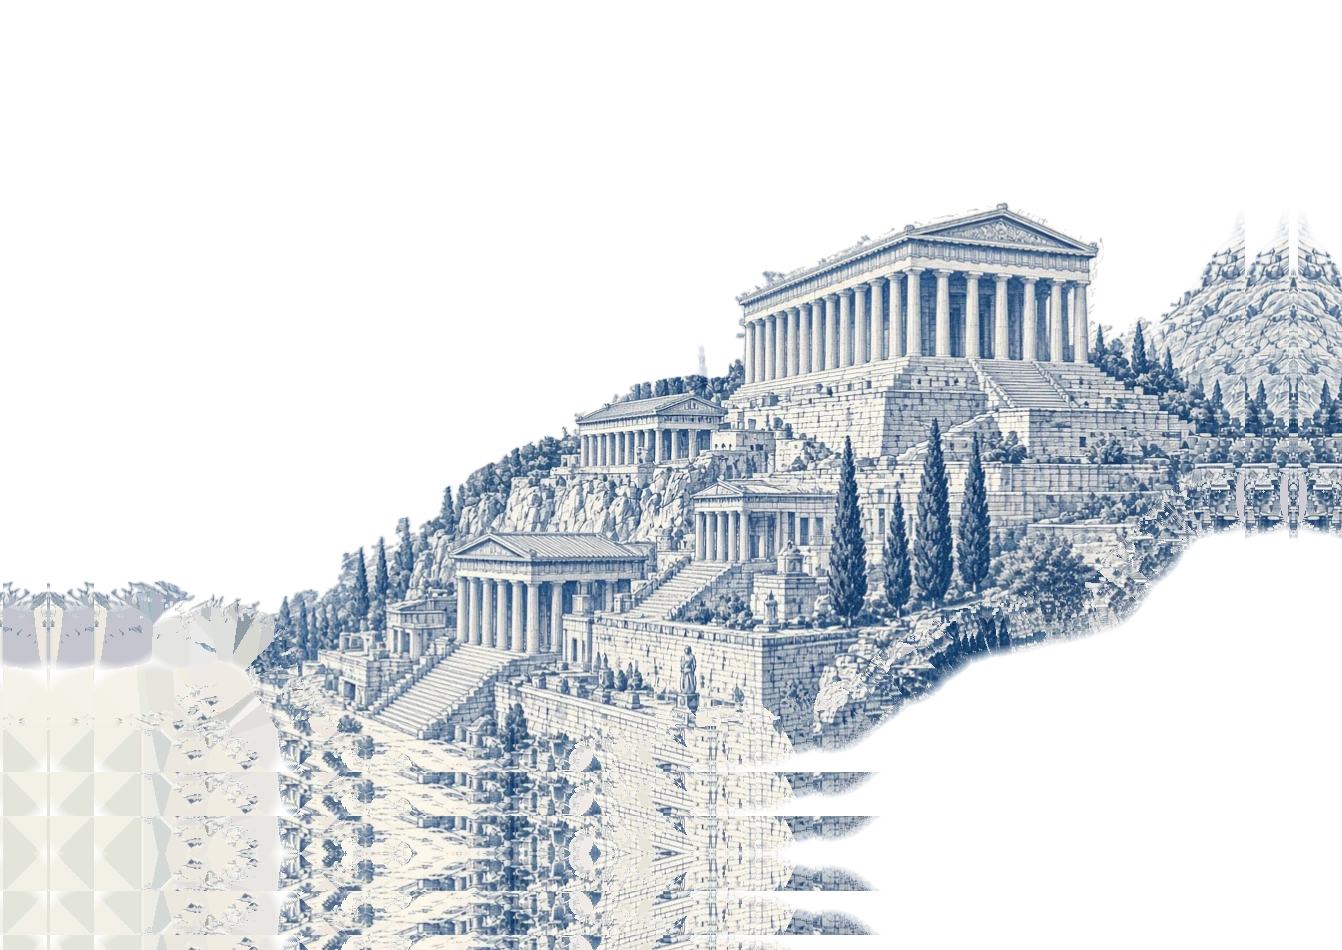
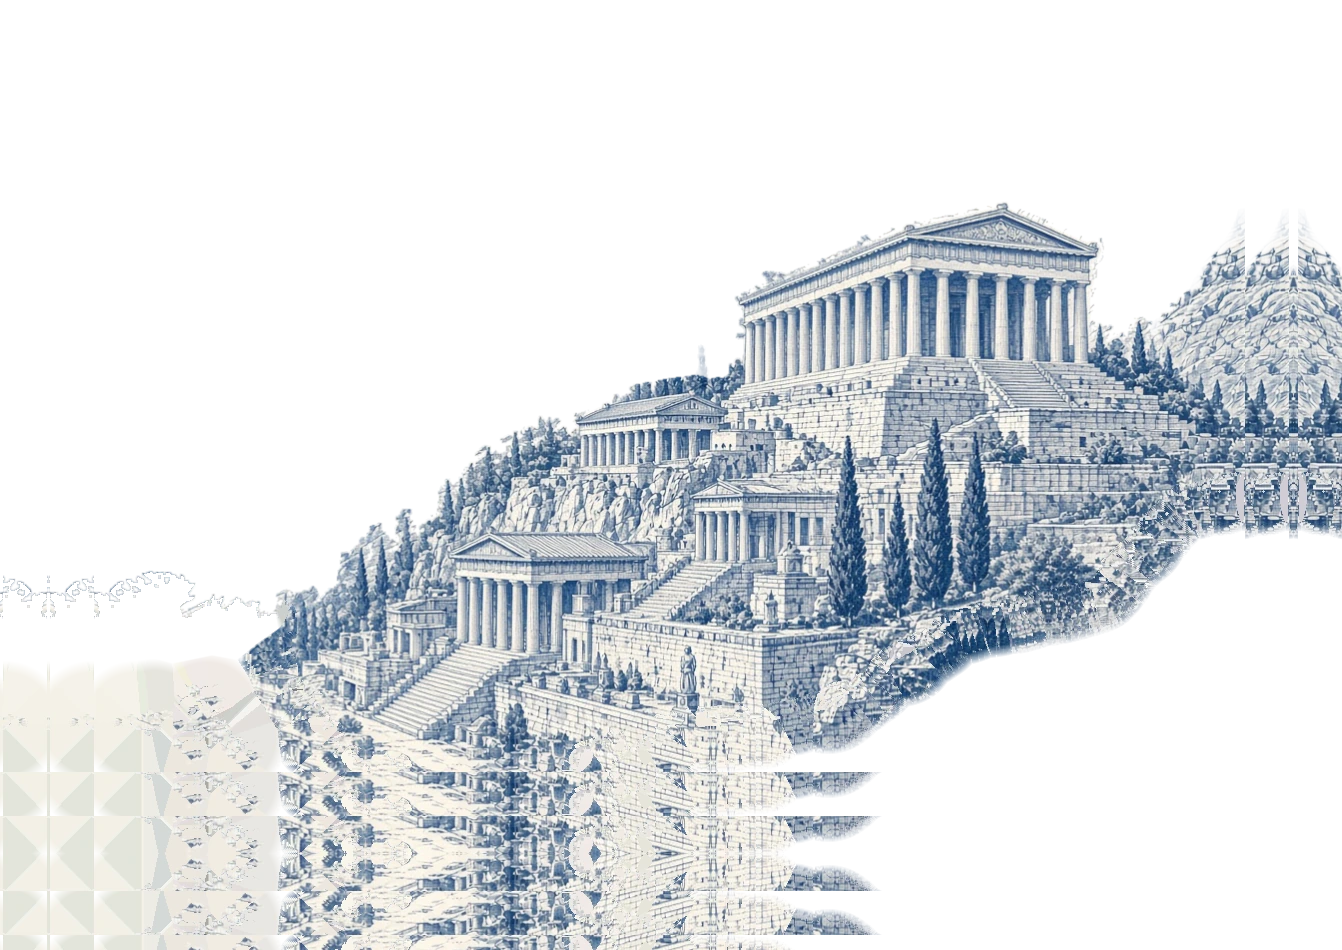
v6: keep split trees whole in one parallax layer

diff --git a/README.md b/README.md
@@ -33,7 +33,7 @@ Each card also carries a flat copy of the full drawing (`assets/layers/*-flat.jp
 
 On phones and tablets the gyroscope drives the parallax on both plates. The angle the phone is held at when the page opens counts as level, and that level slowly follows the hand over about five seconds, so any comfortable angle works. Tilt is read up to about 20 degrees each way, smoothed, and turned to match the screen in landscape. Android and other browsers start at once without asking. iPhone and iPad Safari only send motion readings after the page asks, and the request has to come from a tap, so the first tap anywhere on the page asks (the listener is passive and does not block scrolling or links). A small "Tap, then tilt your phone" hint shows until then and fades once tilting works or the request is answered. If motion access is refused or no readings arrive within about a second, a sideways finger drag on the Forum moves the layers instead, easing back when you let go. Vertical swipes always scroll the page (`touch-action: pan-y`), and finger drags are ignored while the gyroscope is in use.
 
-Where a nearer layer used to hide part of a farther one, the gap is filled with line work taken from the surrounding drawing.
+Where a nearer layer used to hide part of a farther one, the gap is filled with line work taken from the surrounding drawing. Each tree is kept whole in the layer of the ground it stands on, so a cypress or olive never splits between two layers as they move. Where the depth estimate cut a tree, `overrides` in the plate's JSON pull it back into one layer, and `snap_block` stops a tree behind a column from being dragged forward with the column.
 
 If the system asks for reduced motion, the layers stay still and the birds are drawn once, without moving.
 
